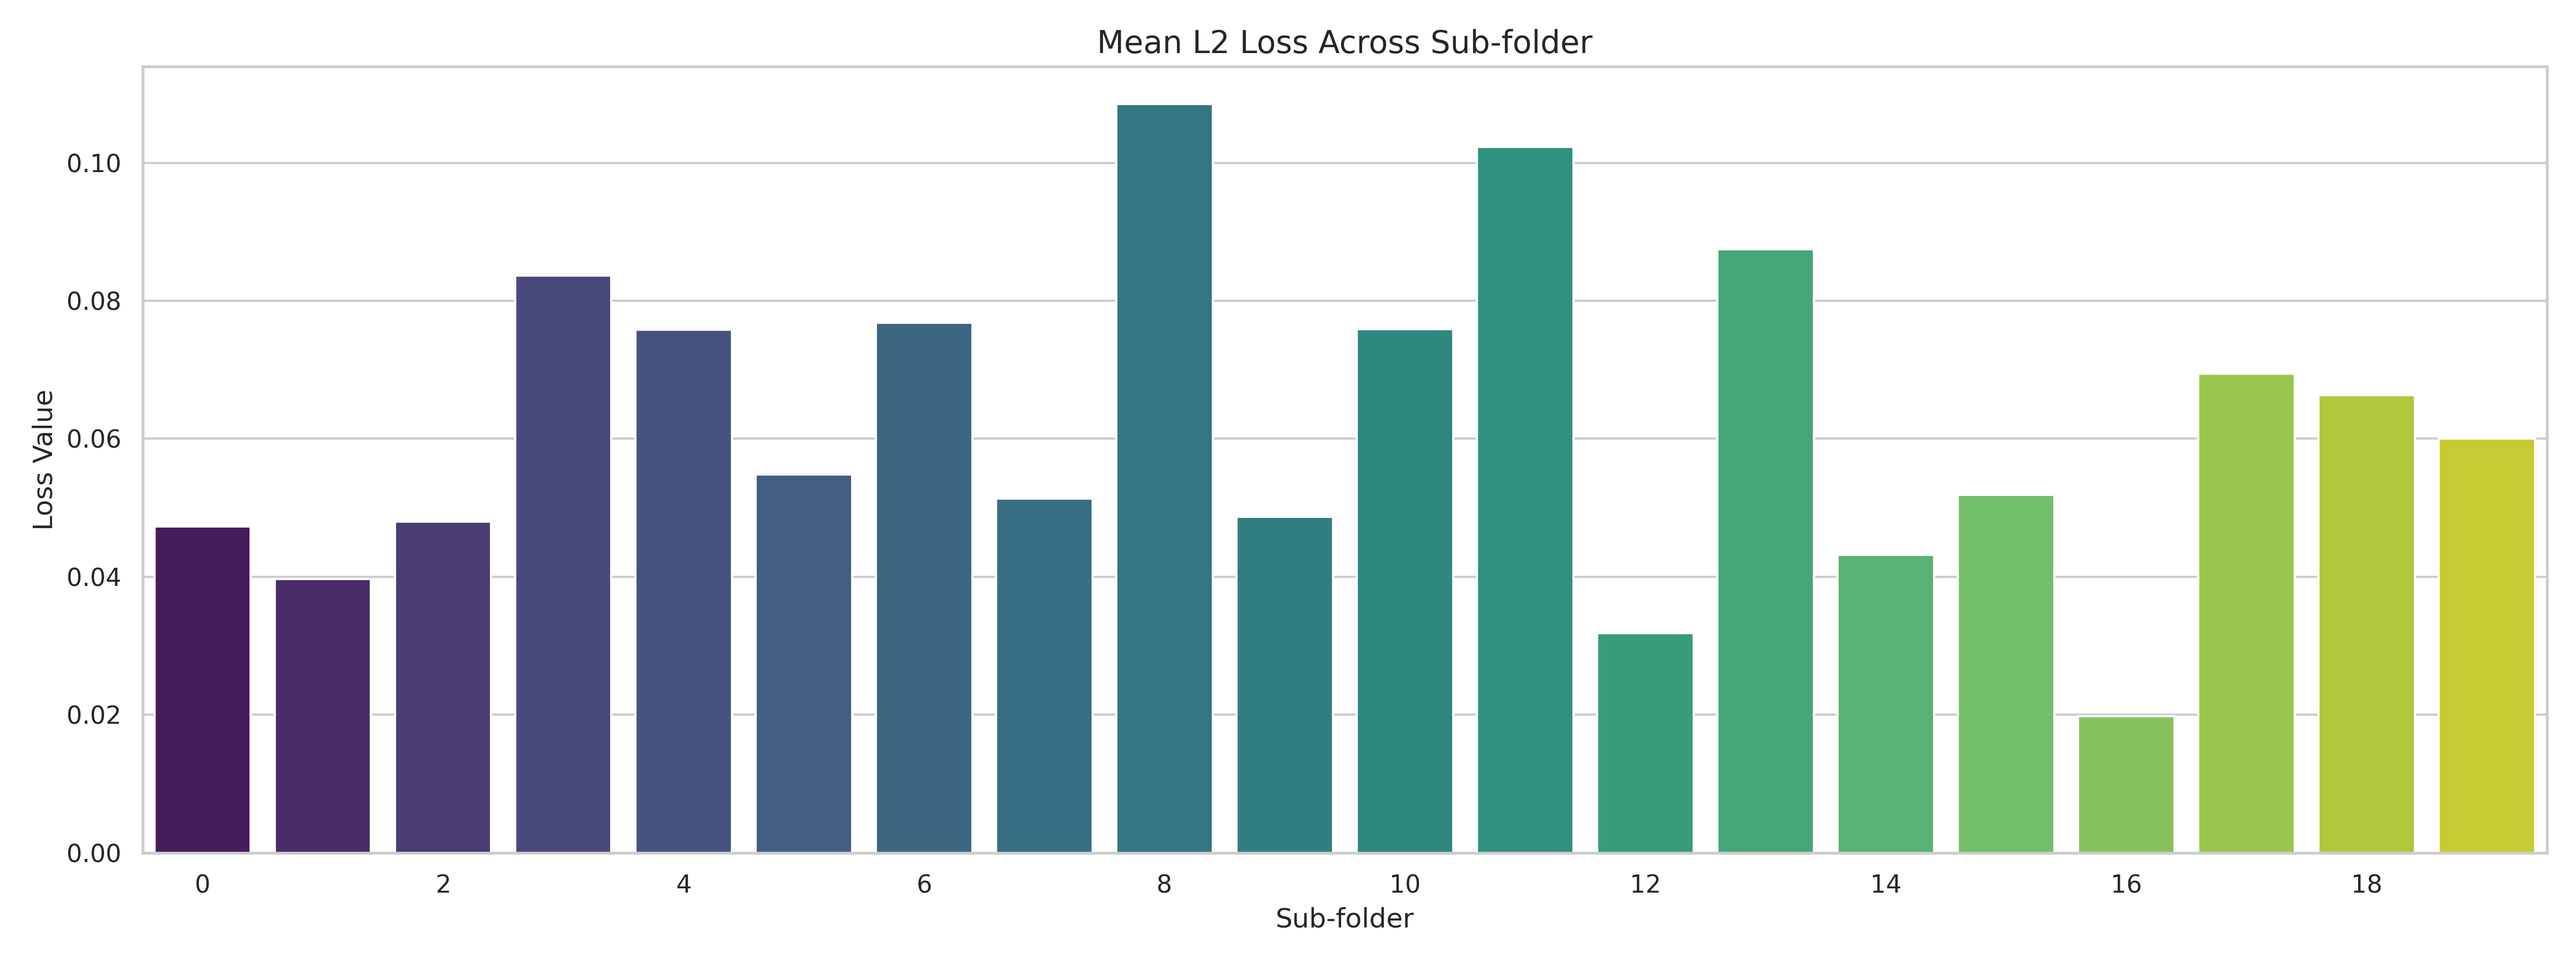
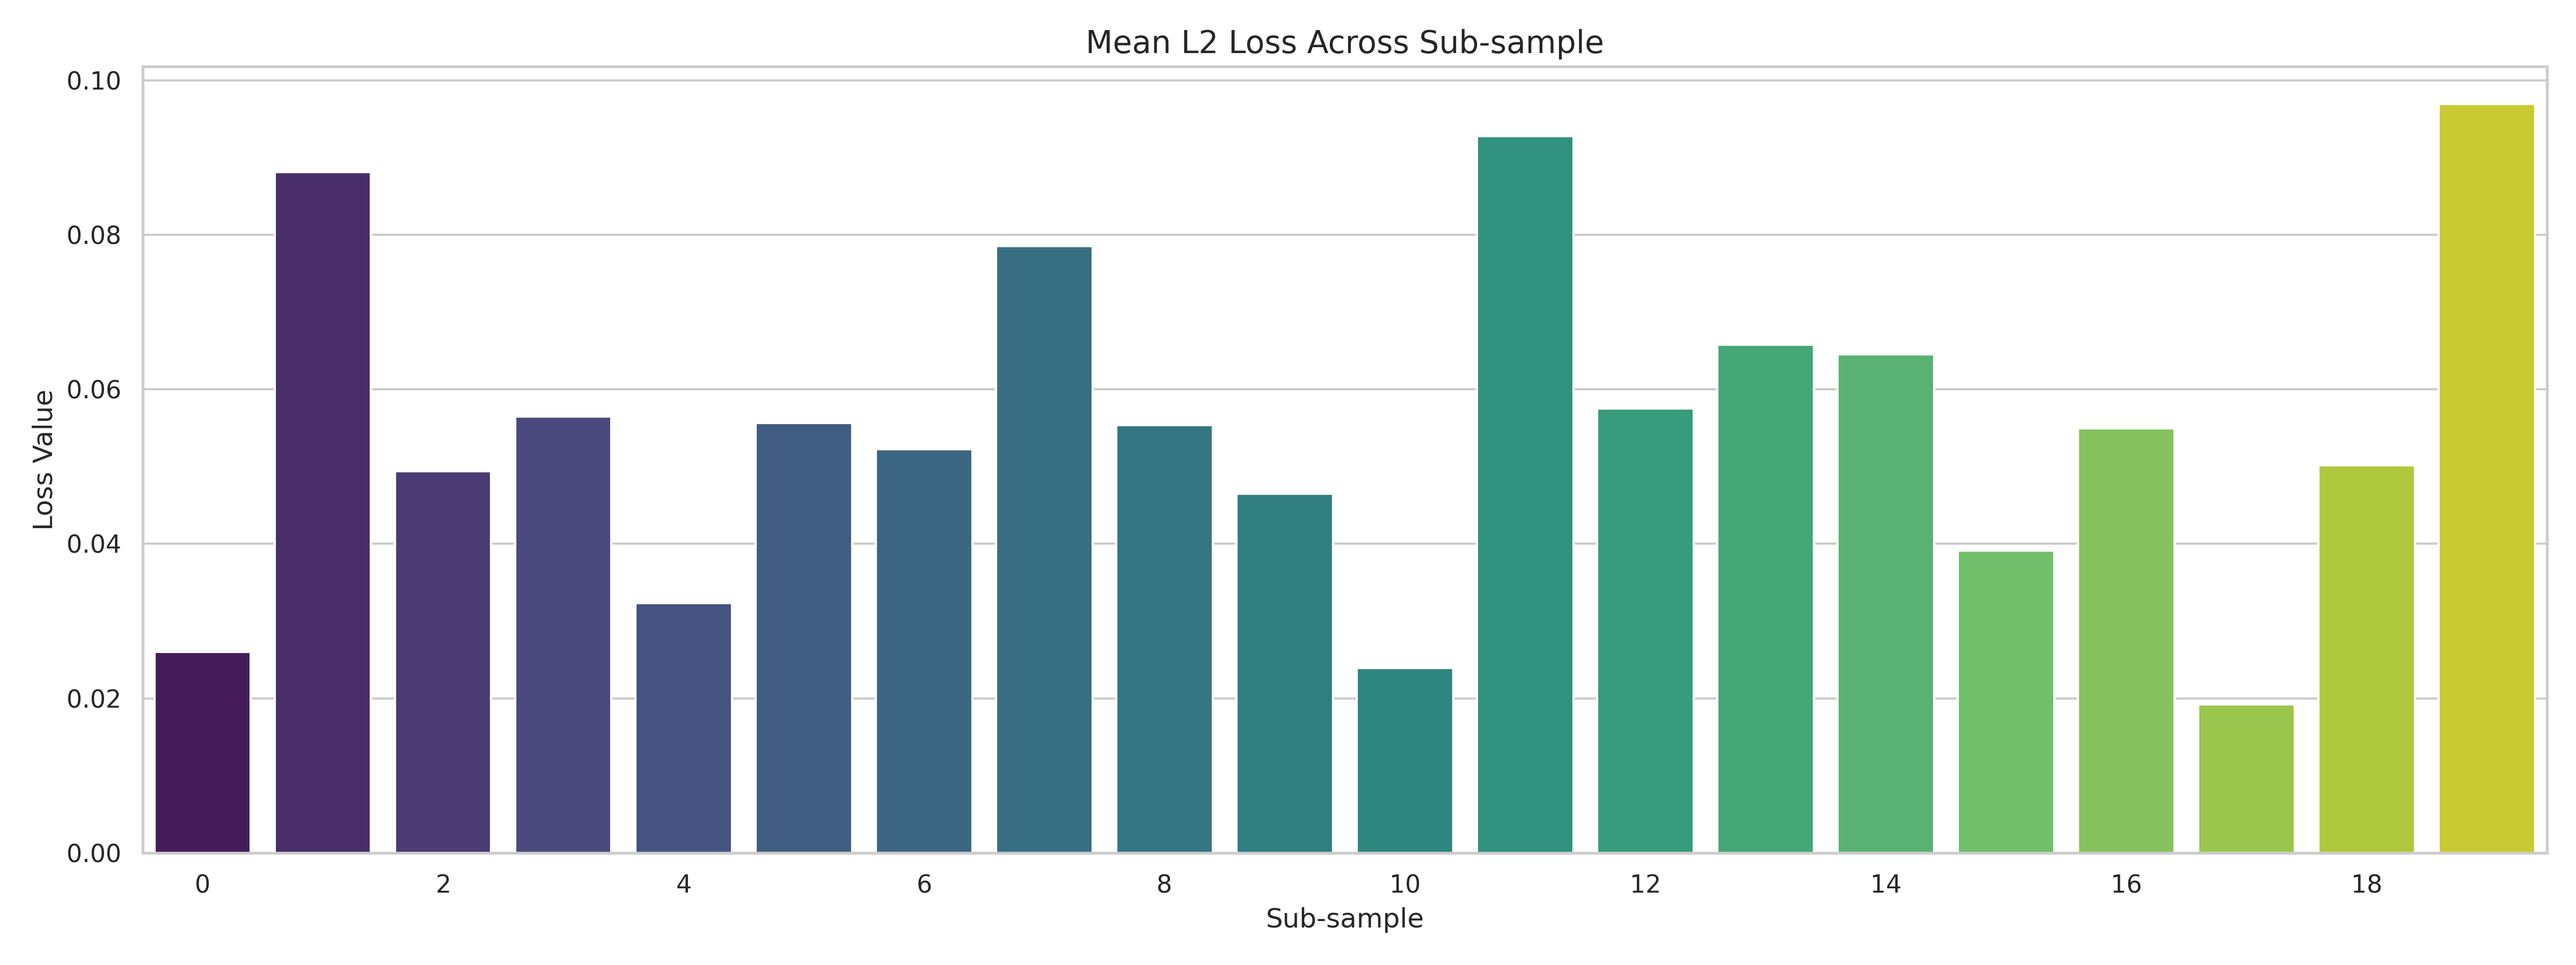
add

diff --git a/gap/gap-visualize.py b/gap/gap-visualize.py
@@ -85,8 +85,8 @@ def visualize_losses(json_file, output_dir="vis", sample_size=20):
         plt.figure(figsize=(width_inches, 6))
         # 绘制柱状图
         sns.barplot(x=subs, y=data[loss_type], hue=subs, palette="viridis", dodge=False, legend=False)
-        plt.title(f"{loss_type.replace('_', ' ').title()} Across Sub-folder", fontsize=14)
-        plt.xlabel("Sub-folder", fontsize=12)
+        plt.title(f"{loss_type.replace('_', ' ').title()} Across Sub-sample", fontsize=14)
+        plt.xlabel("Sub-sample", fontsize=12)
         plt.ylabel("Loss Value", fontsize=12)
         
         # 仅显示部分索引，防止过于密集
